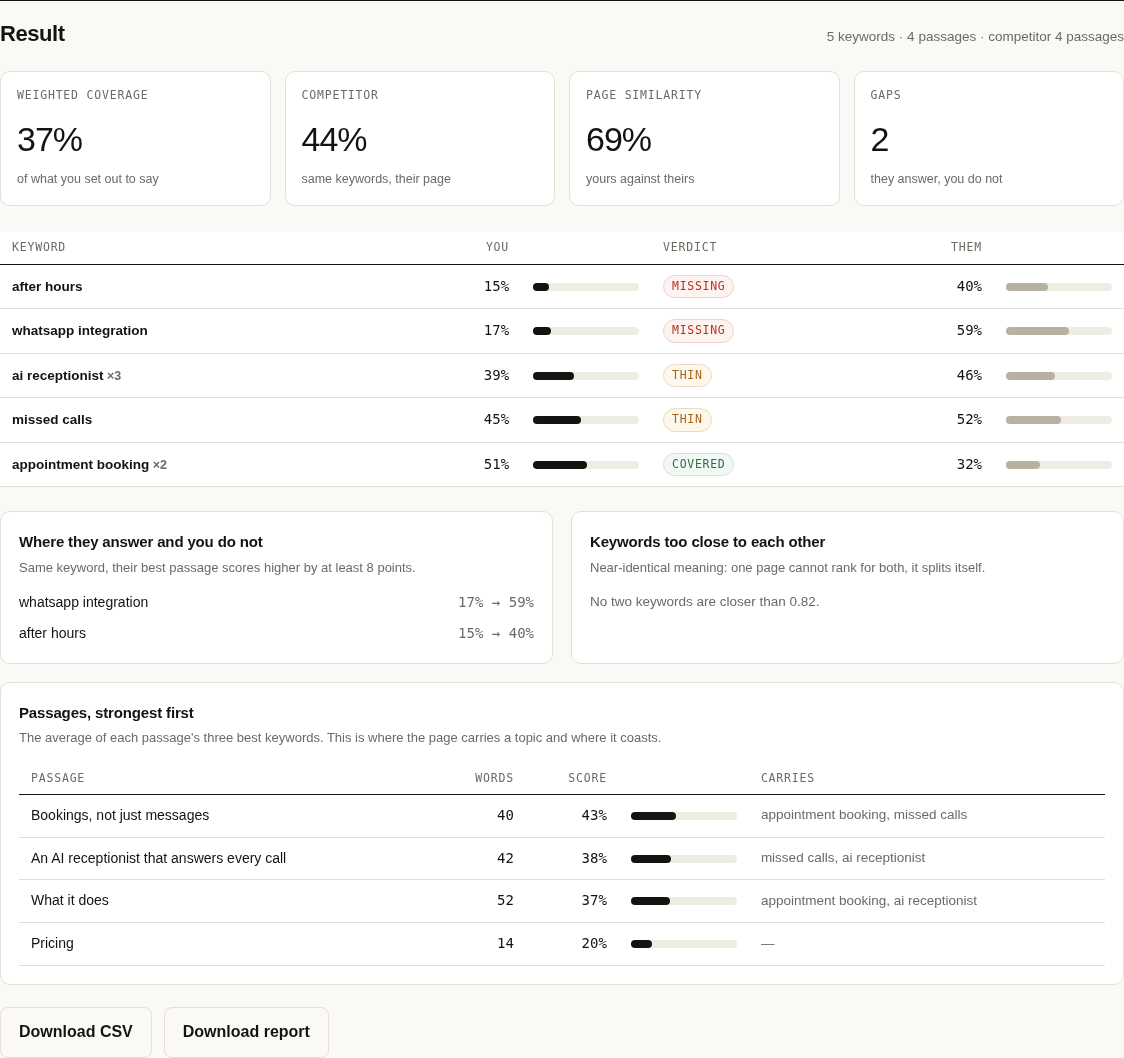
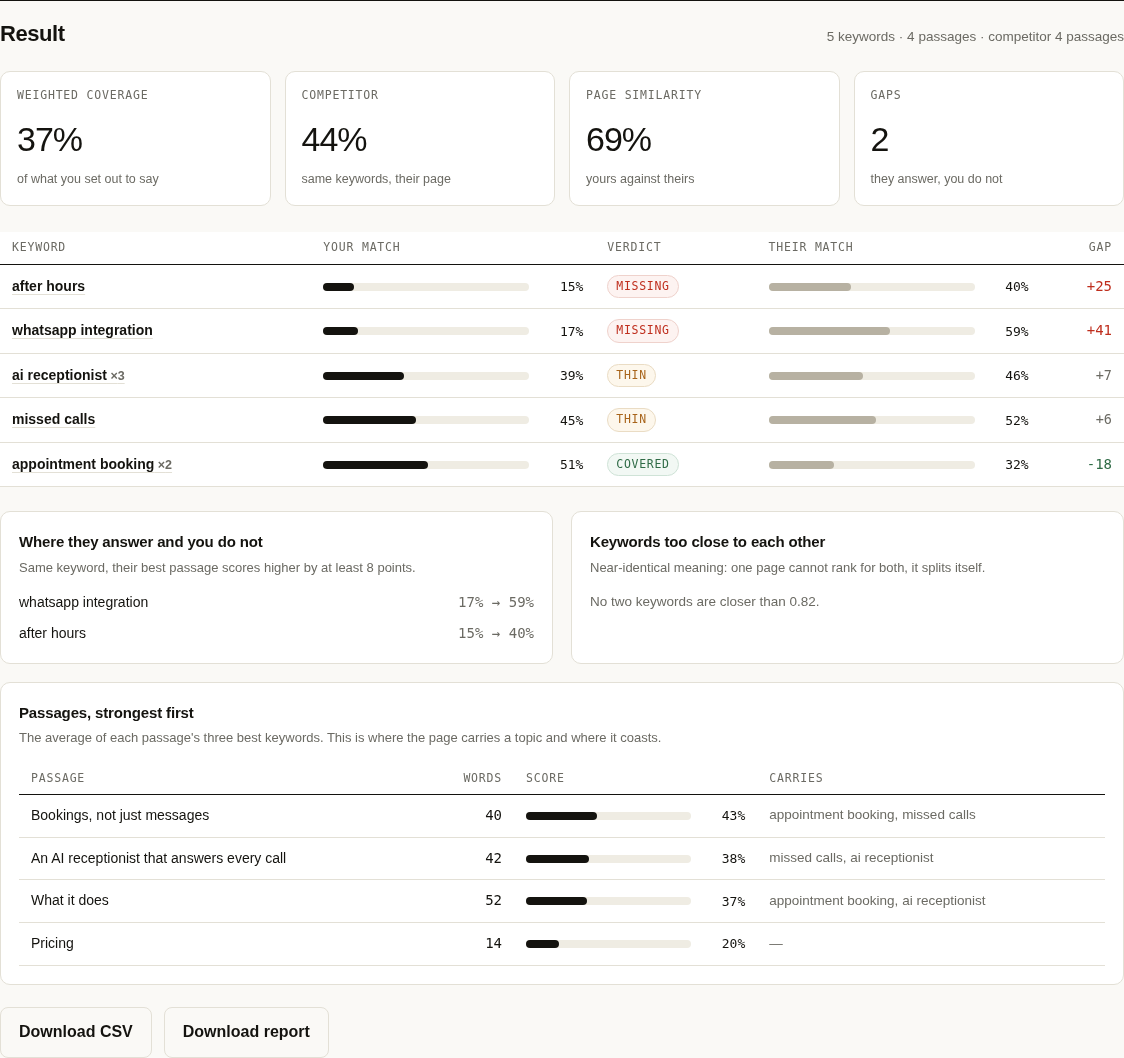
fix: one cell per score, and the gap stated instead of implied
The bar sat beside the number in a column of its own, so a column header could
drift away from the value under it and the reader had to compare two bars by eye.
Each score is now a bar and its number in one cell, and the difference gets its
own column: +41 red where they are ahead, -18 green where you are.

diff --git a/client/src/App.tsx b/client/src/App.tsx
@@ -229,58 +229,73 @@ export default function App() {
               <thead>
                 <tr>
                   <th>Keyword</th>
-                  <th className="num">You</th>
-                  <th className="barcell" aria-label="your match" />
+                  <th>Your match</th>
                   <th>Verdict</th>
-                  <th className="num">Them</th>
-                  <th className="barcell" aria-label="competitor match" />
+                  <th>Their match</th>
+                  <th className="num">Gap</th>
                 </tr>
               </thead>
               <tbody>
-                {analysis.keywords.map((row) => (
-                  <>
-                    <tr key={row.term}>
-                      <td>
-                        <button
-                          className="ghost small"
-                          style={{ border: 0, padding: 0, background: "none", fontWeight: 600 }}
-                          onClick={() => setOpenEvidence(openEvidence === row.term ? null : row.term)}
-                          aria-expanded={openEvidence === row.term}
-                        >
-                          {row.term}
-                          {row.weight > 1 ? <span className="hint"> ×{row.weight}</span> : null}
-                        </button>
-                      </td>
-                      <td className="num">{pct(row.score)}</td>
-                      <td className="barcell">
-                        <div className="bar"><span style={{ width: pct(row.score) }} /></div>
-                      </td>
-                      <td><span className={`pill ${row.verdict}`}>{row.verdict}</span></td>
-                      <td className="num">{row.competitorScore === null ? "–" : pct(row.competitorScore)}</td>
-                      <td className="barcell">
-                        {row.competitorScore === null ? null : (
-                          <div className="bar them"><span style={{ width: pct(row.competitorScore) }} /></div>
-                        )}
-                      </td>
-                    </tr>
-                    {openEvidence === row.term && (
-                      <tr key={`${row.term}-evidence`}>
-                        <td colSpan={6}>
-                          <div className="evidence">
-                            {row.evidence ? (
-                              <>
-                                <b>{row.evidence.heading || "Closest passage"}</b> — {row.evidence.text.slice(0, 420)}
-                                {row.evidence.text.length > 420 ? "…" : ""}
-                              </>
-                            ) : (
-                              "No passage to quote."
-                            )}
+                {analysis.keywords.map((row) => {
+                  const gap = row.competitorScore === null ? null : row.competitorScore - row.score;
+                  return (
+                    <>
+                      <tr key={row.term}>
+                        <td>
+                          <button
+                            className="term"
+                            onClick={() => setOpenEvidence(openEvidence === row.term ? null : row.term)}
+                            aria-expanded={openEvidence === row.term}
+                          >
+                            {row.term}
+                            {row.weight > 1 ? <span className="hint"> ×{row.weight}</span> : null}
+                          </button>
+                        </td>
+                        <td>
+                          <div className="score">
+                            <span className="bar"><span style={{ width: pct(row.score) }} /></span>
+                            <b>{pct(row.score)}</b>
                           </div>
                         </td>
+                        <td><span className={`pill ${row.verdict}`}>{row.verdict}</span></td>
+                        <td>
+                          {row.competitorScore === null ? (
+                            <span className="note">–</span>
+                          ) : (
+                            <div className="score">
+                              <span className="bar them"><span style={{ width: pct(row.competitorScore) }} /></span>
+                              <b>{pct(row.competitorScore)}</b>
+                            </div>
+                          )}
+                        </td>
+                        <td className="num">
+                          {gap === null ? "–" : (
+                            <span className={gap >= 0.08 ? "gap-behind" : gap <= -0.02 ? "gap-ahead" : "note"}>
+                              {gap >= 0 ? "+" : ""}
+                              {Math.round(gap * 100)}
+                            </span>
+                          )}
+                        </td>
                       </tr>
-                    )}
-                  </>
-                ))}
+                      {openEvidence === row.term && (
+                        <tr key={`${row.term}-evidence`}>
+                          <td colSpan={5}>
+                            <div className="evidence">
+                              {row.evidence ? (
+                                <>
+                                  <b>{row.evidence.heading || "Closest passage"}</b> — {row.evidence.text.slice(0, 420)}
+                                  {row.evidence.text.length > 420 ? "…" : ""}
+                                </>
+                              ) : (
+                                "No passage to quote."
+                              )}
+                            </div>
+                          </td>
+                        </tr>
+                      )}
+                    </>
+                  );
+                })}
               </tbody>
             </table>
 
@@ -324,15 +339,19 @@ export default function App() {
               <p className="sub">The average of each passage's three best keywords. This is where the page carries a topic and where it coasts.</p>
               <table>
                 <thead>
-                  <tr><th>Passage</th><th className="num">Words</th><th className="num">Score</th><th className="barcell" /><th>Carries</th></tr>
+                  <tr><th>Passage</th><th className="num">Words</th><th>Score</th><th>Carries</th></tr>
                 </thead>
                 <tbody>
                   {[...analysis.sections].sort((a, b) => b.score - a.score).map((section) => (
                     <tr key={section.heading}>
                       <td>{section.heading}</td>
                       <td className="num">{section.words}</td>
-                      <td className="num">{pct(section.score)}</td>
-                      <td className="barcell"><div className="bar"><span style={{ width: pct(section.score) }} /></div></td>
+                      <td>
+                        <div className="score">
+                          <span className="bar"><span style={{ width: pct(section.score) }} /></span>
+                          <b>{pct(section.score)}</b>
+                        </div>
+                      </td>
                       <td className="note">{section.topKeywords.length ? section.topKeywords.join(", ") : "—"}</td>
                     </tr>
                   ))}

diff --git a/client/src/styles.css b/client/src/styles.css
@@ -120,3 +120,19 @@ footer { border-top: 1px solid var(--hair); margin-top: 56px; padding-top: 18px;
   .stats { grid-template-columns: repeat(2, minmax(0, 1fr)); }
   h1 { margin-top: 28px; }
 }
+
+/* A score reads as one thing: the bar and its number in the same cell, so a
+   column header can never drift away from the value underneath it. */
+.score { display: flex; align-items: center; gap: 10px; }
+.score .bar { flex: 1 1 auto; }
+.score b { flex: 0 0 44px; text-align: right; font: 500 13px/1 var(--mono); }
+
+button.term {
+  background: none; border: 0; padding: 0; font: inherit; font-weight: 600;
+  color: var(--ink); text-align: left; cursor: pointer;
+  text-decoration: underline; text-decoration-color: var(--hair); text-underline-offset: 3px;
+}
+button.term:hover { text-decoration-color: var(--ink); }
+
+.gap-behind { color: var(--accent); font-family: var(--mono); }
+.gap-ahead { color: var(--good); font-family: var(--mono); }
